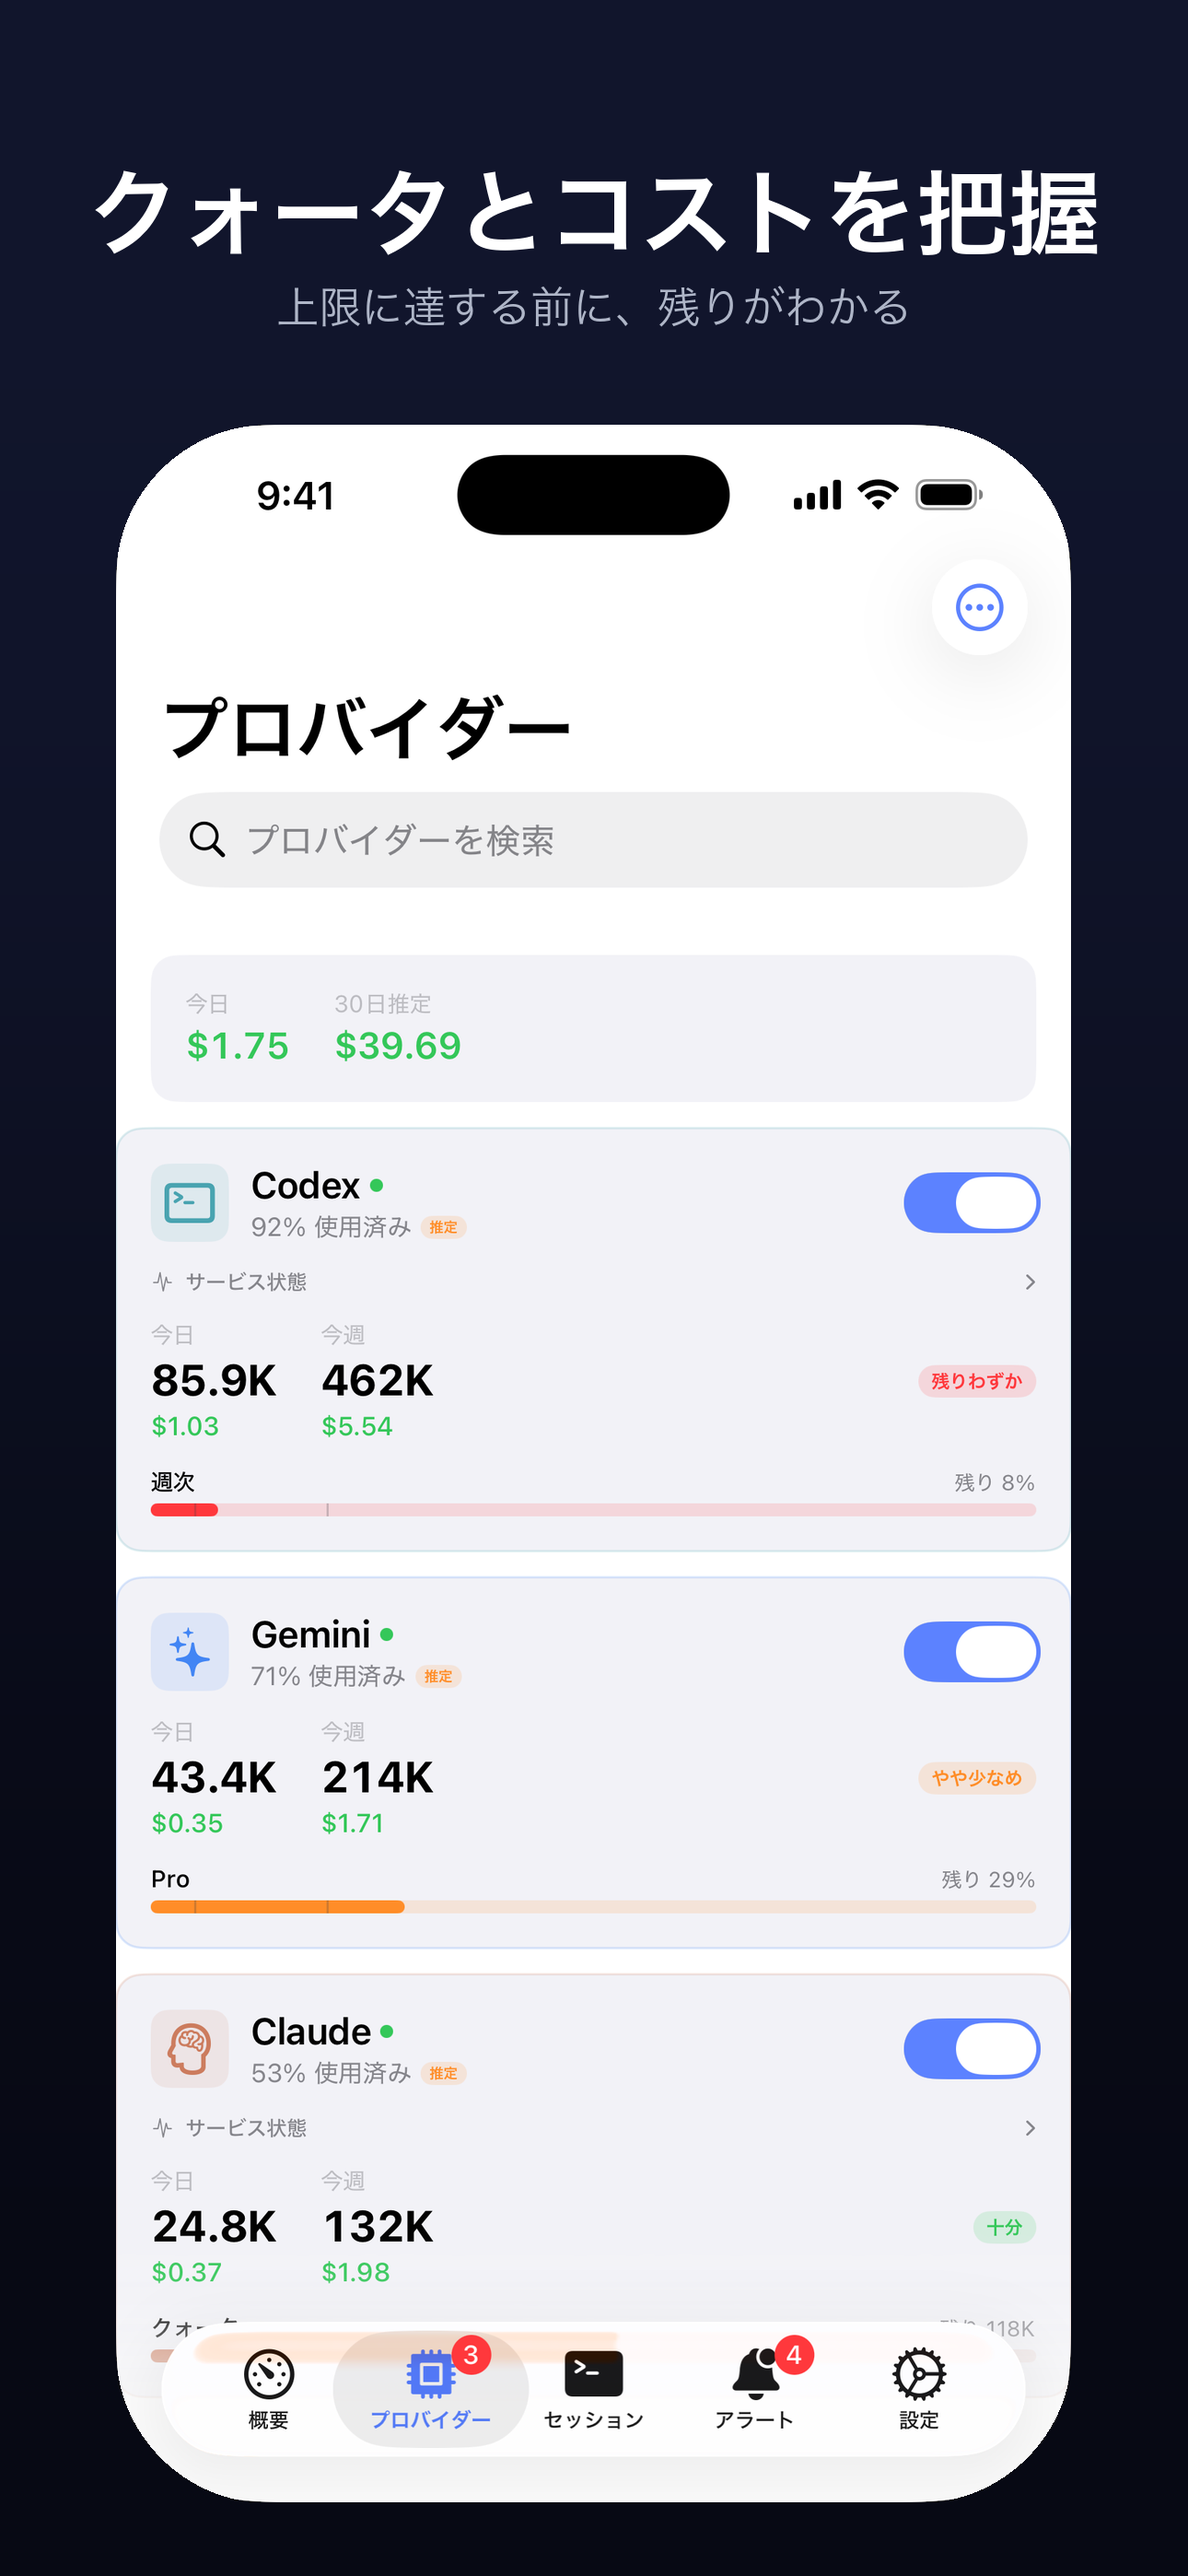
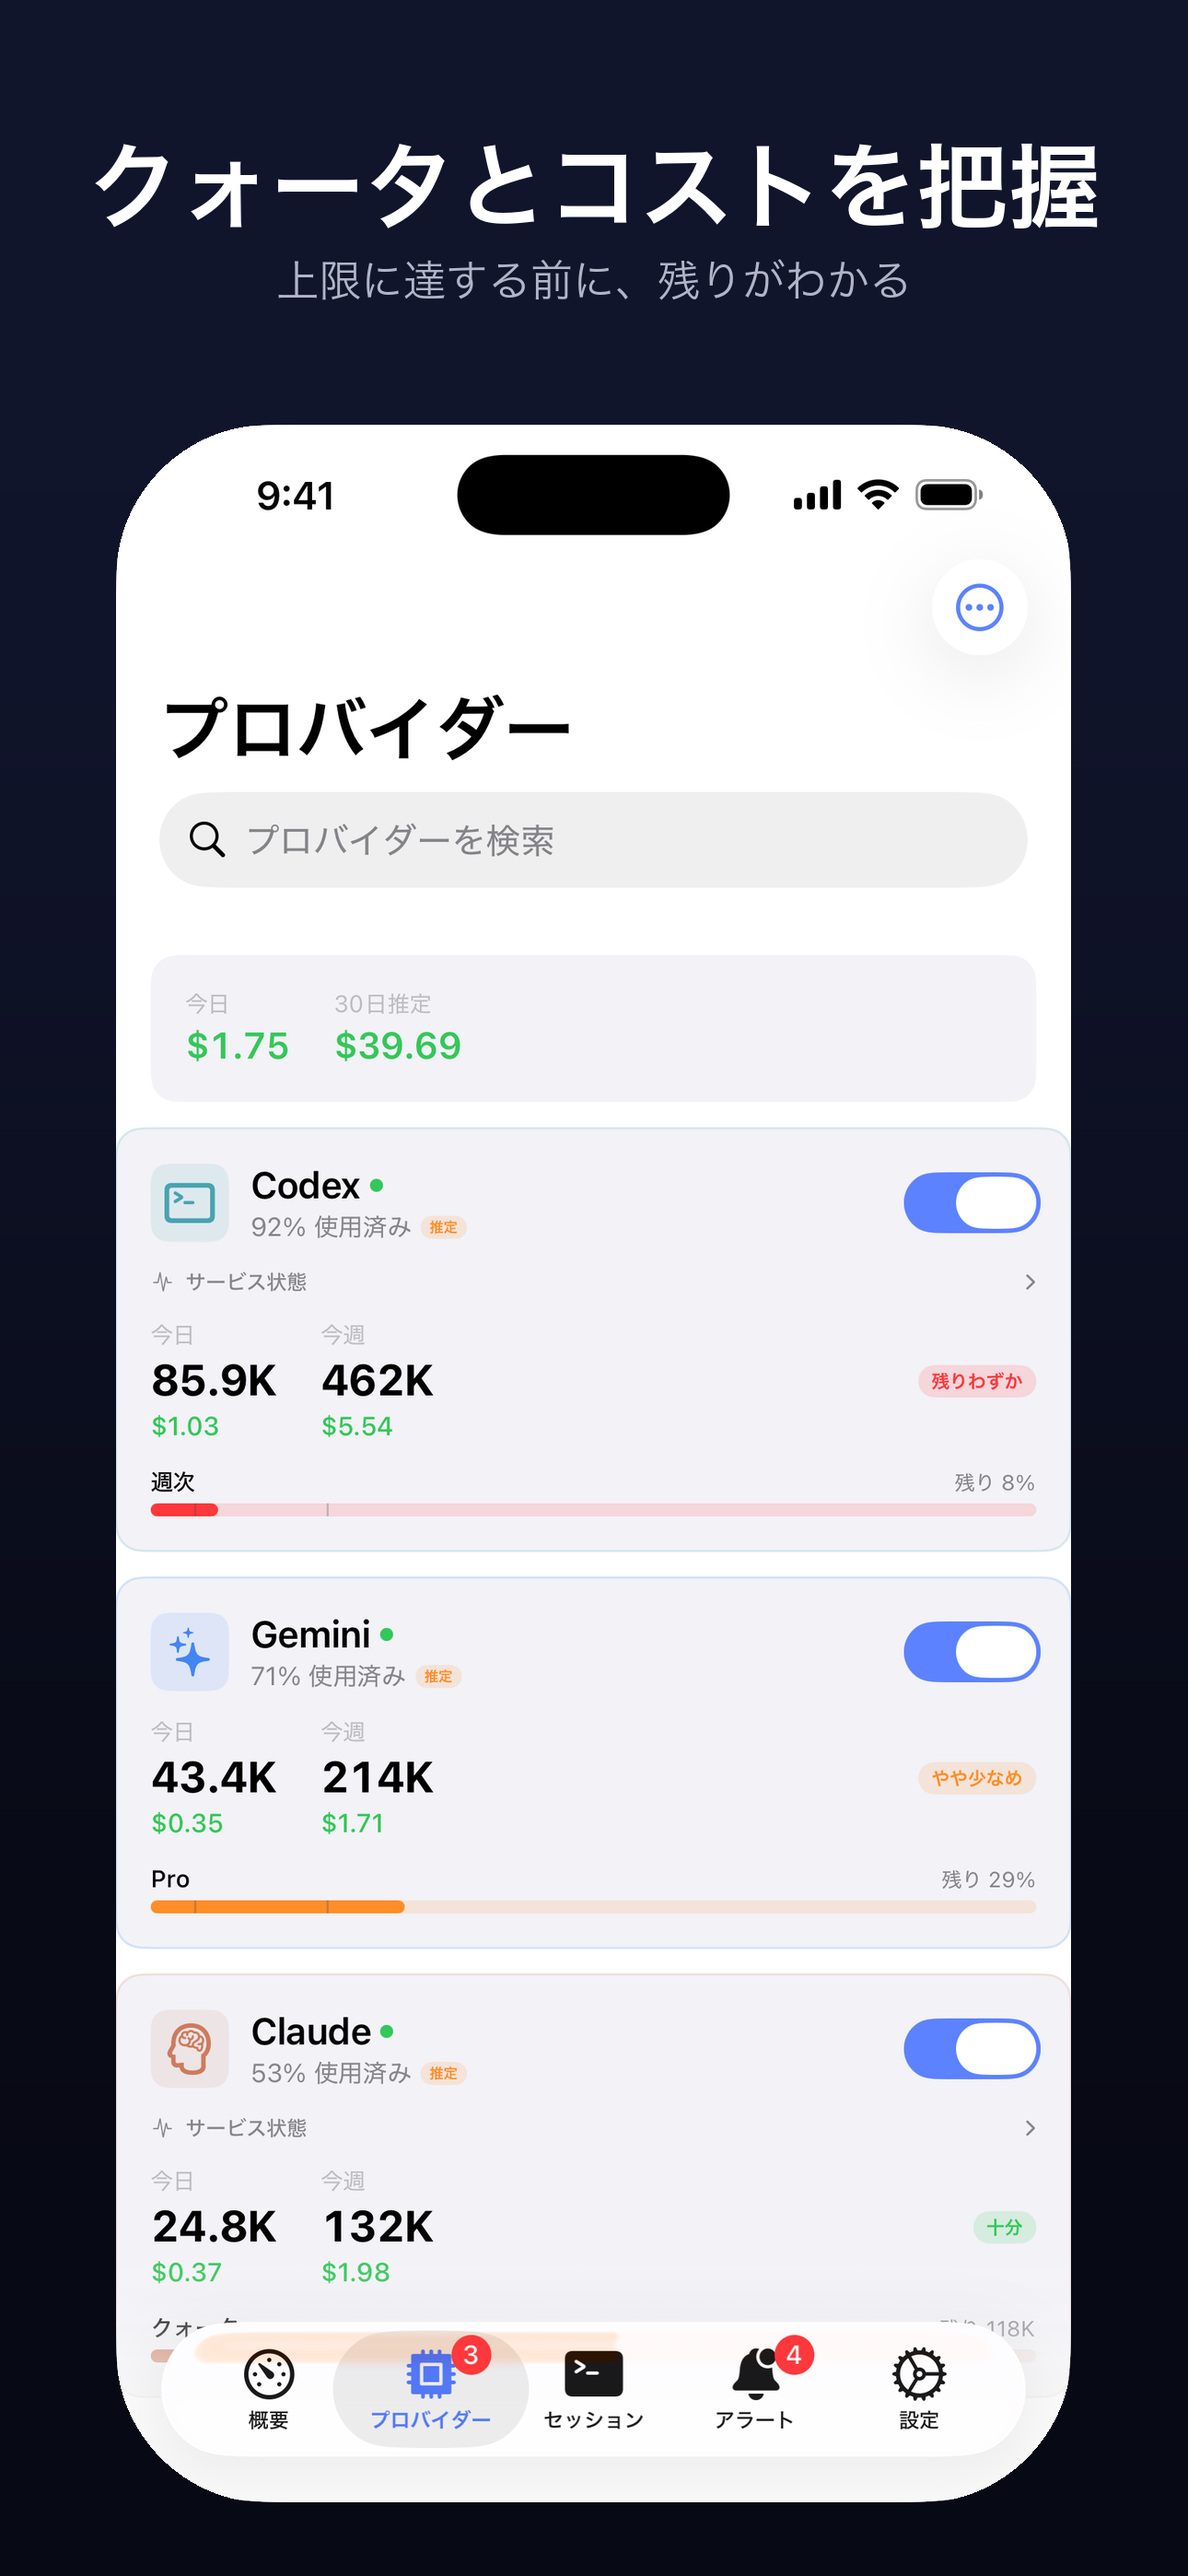
Every headline of a set sits at the same height, whatever its subtitle's length
Each panel reserves room for its set's tallest subtitle, so the phone sits
at the same place on every panel. But the caption was centred in that
room, so in a set mixing one- and two-line subtitles the one-line panels'
headlines dropped half a line (29 px) below the others'. App Store
Connect shows the panels side by side, so that shows: zh-Hant 01-04
against 05, ja 02 against the rest, es 01/02/04 against 03/05.

The headline is now pinned to the top of the room, the subtitle directly
under it, and what a shorter subtitle leaves over stays empty below it.
The phone's place, the type sizes, wrapping, glyph checks and centring of
lines ending in 、。 are unchanged. The rule lives in caption_layout(),
which is pure, so its test runs on the bare CI runner too.

Recomposed --all from the committed captures. en, zh-Hans and ko are
byte-identical (every subtitle there is one line, so nothing moved), as
are the two-line panels zh-Hant 05, ja 01/03/04/05 and es 03/05. The
eight one-line panels changed, and only in their caption band: it is the
old band moved up exactly 29 px with no pixel value changed, and every
row from the subtitle's old bottom down, the whole phone included, is
identical to before.

Headline ink tops per panel (01..05), before -> after:
  zh-Hant 185 185 184 184 155 -> 156 156 155 155 155
  ja      157 185 154 155 156 -> 157 156 154 155 156
  es      195 195 165 194 166 -> 166 166 165 165 166
[…]

Changed region(s): [[0.062, 0.0311, 0.9302, 0.1245]]

diff --git a/scripts/test_appstore_screenshots.py b/scripts/test_appstore_screenshots.py
@@ -11,13 +11,17 @@
     Traditional Chinese captions use the decided terms (scripts/zh_hant_terms.json);
     lines wrap where each script allows it (kinsoku in Chinese and Japanese,
     spaces in Korean and Spanish, never inside "CLI Pulse" or a Latin word);
+    every headline of a set starts at the same height, whatever its subtitle's
+    line count, and so does every phone;
   * a composed set is uploadable only with the compose.json a clean compose
     run writes, and only with the panels it records;
   * on macOS with Pillow only: every caption's every character has a glyph in
     the chosen face; a Latin-only face, and a face of the other Chinese region,
     is refused (the negative controls); a trailing 、 is centred on its ink; a
-    failing compose run publishes nothing and withdraws the earlier set. On any
-    other machine these are reported as NOT RUN, never as passed.
+    failing compose run publishes nothing and withdraws the earlier set; on a
+    composed set mixing one- and two-line subtitles, every headline is on the
+    same pixel rows. On any other machine these are reported as NOT RUN, never
+    as passed.
 
 Bare python3 for everything else; CI runs it in repo-hygiene.yml.
 """
@@ -272,6 +276,26 @@ check("a U+200B is a preferred break and is never drawn",
       lines == ["すべてを", "ひと目で見る"], str(lines))
 check("nothing fits: None, not a clipped line", wrap("Averyveryverylongword", "en", 5) is None)
 
+# ── caption layout ───────────────────────────────────────────────────────────
+# Every panel of a set reserves room for the set's tallest subtitle. App Store
+# Connect shows the panels side by side, so in a set mixing one- and two-line
+# subtitles a one-line panel's headline must start where a two-line panel's
+# does; centring the caption in the room dropped it half a line.
+t_box, s_box = round(100 * compose.LINE_BOX), round(46 * compose.LINE_BOX)
+one, two = (compose.caption_layout(t_box, s_box, n, 2) for n in (1, 2))
+check("in a set mixing one- and two-line subtitles, every headline and subtitle starts at the same y",
+      one.title_y == two.title_y and one.sub_ys[0] == two.sub_ys[0], f"{one} vs {two}")
+check("... and every phone too",
+      one.shot_top == two.shot_top, f"{one} vs {two}")
+check("the headline is at the top of the room, the subtitle directly under it",
+      one.title_y == compose.TEXT_TOP_MARGIN
+      and one.sub_ys == (one.title_y + t_box + compose.TITLE_TO_SUB_GAP,)
+      and two.sub_ys[1] == two.sub_ys[0] + s_box + compose.SUB_LINE_GAP, f"{one} / {two}")
+alone = compose.caption_layout(t_box, s_box, 1, 1)
+check("a set of one-line subtitles reserves one line, so its phone starts one line higher",
+      alone.title_y == one.title_y
+      and alone.shot_top == one.shot_top - s_box - compose.SUB_LINE_GAP, f"{alone} vs {one}")
+
 # ── fonts (macOS with Pillow only) ───────────────────────────────────────────
 
 fonts_here = compose.ImageFont is not None and Path("/System/Library/Fonts/SFNS.ttf").exists()
@@ -387,6 +411,68 @@ if fonts_here:
           raised is not None and calls["n"] == 3 and not manifest.exists()
           and not any(p.name.startswith(".ko.") for p in out.parent.iterdir()),
           f"raised={raised!r} manifest={manifest.exists()}")
+
+    # The headline rule on the pixels: one headline over all five panels,
+    # subtitles alternating one and two lines (the one-line one is the other's
+    # first line, so it draws the same ink), composed and measured.
+    from PIL import ImageChops as _Chops
+    FIXTURE_RGB = (240, 242, 246)   # the raw captures above
+
+    def ink_rows(img, lo: int, hi: int, floor: int):
+        """(first, last) row in [lo, hi) with a pixel whose every channel is >= floor."""
+        chans = [c.point(lambda v: 255 if v >= floor else 0)
+                 for c in img.crop((0, lo, img.width, hi)).split()]
+        box = _Chops.darker(_Chops.darker(chans[0], chans[1]), chans[2]).getbbox()
+        return None if box is None else (lo + box[1], lo + box[3] - 1)
+
+    def phone_top(img) -> int | None:
+        """The first row whose middle 200 px are all the capture's colour."""
+        mid = img.width // 2
+        for y in range(img.height):
+            if set(img.crop((mid - 100, y, mid + 100, y + 1)).getdata()) == {FIXTURE_RGB}:
+                return y
+        return None
+
+    es_faces = compose.pick_faces("es")[0]
+    long_sub = "Alertas de cuota, picos de CPU y sesiones de larga duración"
+    long_lines = compose.subtitle_lines(long_sub, "es", es_faces["subtitle"], compose.SUB_SIZE_MAX) or []
+    short_sub = long_lines[0] if long_lines else long_sub
+    mixed = {st: ("Todo de un vistazo", long_sub if i % 2 else short_sub)
+             for i, st in enumerate(shots.stems())}
+    saved_es = dict(compose.COPY["es"])
+    out_es = tmp / "compose-out" / "es"
+    try:
+        compose.COPY["es"].update(mixed)
+        with contextlib.redirect_stdout(io.StringIO()) as log:
+            es_run = compose.compose_lang("es", raw, out_es)
+        n_lines = [len(compose.subtitle_lines(s, "es", es_faces["subtitle"], compose.SUB_SIZE_MAX) or [])
+                   for _, s in mixed.values()]
+    finally:
+        compose.COPY["es"].clear()
+        compose.COPY["es"].update(saved_es)
+    check("the headline fixture composes, and mixes one- and two-line subtitles",
+          es_run == [] and n_lines == [1, 2, 1, 2, 1], f"{es_run} {n_lines}\n{log.getvalue()}")
+    measured = {}
+    for st in shots.stems():
+        img = _Image.open(out_es / shots.composed_name(st)).convert("RGB")
+        top = phone_top(img)
+        # Only the white title reaches 215 in every channel; the grey subtitle
+        # (175, 182, 200) never does, and anything above 120 is one of the two.
+        title = ink_rows(img, 0, top or 0, 215) if top else None
+        sub = ink_rows(img, title[1] + 1, top, 120) if title else None
+        measured[st] = (title, sub[0] if sub else None, top,
+                        img.crop((0, top, img.width, img.height)).tobytes() if top else None)
+    detail = "\n".join(f"{st}: headline rows {m[0]}, subtitle from row {m[1]}, phone from row {m[2]}"
+                       for st, m in measured.items())
+    check("every panel's headline is on the same rows when subtitles mix one and two lines",
+          None not in {m[0] for m in measured.values()} and len({m[0] for m in measured.values()}) == 1,
+          detail)
+    check("... and so is its subtitle's first line",
+          None not in {m[1] for m in measured.values()} and len({m[1] for m in measured.values()}) == 1,
+          detail)
+    check("... and the phone starts on the same row, drawn the same, on every panel",
+          None not in {m[2] for m in measured.values()}
+          and len({(m[2], m[3]) for m in measured.values()}) == 1, detail)
 else:
     not_run += 1
     print("NOT RUN: glyph coverage (needs macOS system fonts and Pillow); "

diff --git a/CLI Pulse Bar/scripts/compose_appstore_ios_screenshots.py b/CLI Pulse Bar/scripts/compose_appstore_ios_screenshots.py
@@ -19,7 +19,7 @@ Usage:
 Exit 1 if any caption does not fit or any character would render as tofu.
 The output directory then keeps no set a push would accept (see 5).
 
-Five things this script learned the hard way, each of which silently produces a
+Six things this script learned the hard way, each of which silently produces a
 listing you would not ship:
 
 1. TEXT THAT DOES NOT FIT IS NOT A LAYOUT PROBLEM, IT IS A CROPPED SENTENCE.
@@ -65,6 +65,13 @@ listing you would not ship:
    left there cannot be pushed as if it were this run's: set_problems in
    scripts/appstore_screenshots.py, which the pusher and --require-shots use,
    refuses a set without compose.json or with a panel it does not list.
+
+6. PANELS ARE SEEN SIDE BY SIDE, SO THEIR HEADLINES MUST LINE UP.
+   Every panel of a set reserves room for the set's tallest subtitle, so the
+   phone sits at the same place on each. Centring a shorter caption in that
+   room dropped its headline half a line below its neighbours' in every set
+   mixing one- and two-line subtitles. The headline now sits at the top of
+   the room on every panel (caption_layout).
 """
 
 from __future__ import annotations
@@ -541,6 +548,34 @@ def set_sub_lines(lang: str, faces: dict[str, Face], stems_: list[str], s_size: 
                for st in stems_)
 
 
+@dataclass(frozen=True)
+class CaptionLayout:
+    title_y: int                # top of the title's line box
+    sub_ys: tuple[int, ...]     # top of each subtitle line's box
+    shot_top: int               # where the space for the phone starts
+
+
+def caption_layout(title_box: int, sub_box: int, sub_lines: int,
+                   reserved_lines: int) -> CaptionLayout:
+    """Where one panel's caption and phone go, from its line boxes (pure; tested
+    without Pillow). `reserved_lines` is the set's tallest subtitle
+    (set_sub_lines), and every panel reserves room for that many lines.
+
+    The headline is pinned to the top of that room, the subtitle follows
+    directly under it, and whatever a shorter subtitle leaves over stays empty
+    below it, so the headline sits at the same height on every panel of the
+    set (see 6 in the module docstring: centring the caption in the room
+    dropped the one-line panels' headlines half a line, in zh-Hant 01-04, ja 02
+    and es 01/02/04). The phone's place depends only on the room."""
+    reserved_lines = max(reserved_lines, sub_lines)
+    title_y = TEXT_TOP_MARGIN
+    first_sub = title_y + title_box + TITLE_TO_SUB_GAP
+    sub_ys = tuple(first_sub + i * (sub_box + SUB_LINE_GAP) for i in range(sub_lines))
+    room = (title_box + TITLE_TO_SUB_GAP
+            + reserved_lines * sub_box + (reserved_lines - 1) * SUB_LINE_GAP)
+    return CaptionLayout(title_y, sub_ys, TEXT_TOP_MARGIN + room + TEXT_TO_SHOT_GAP)
+
+
 def set_sizes(lang: str, faces: dict[str, Face], stems_: list[str]) -> tuple[int, int, list[str]]:
     """One title size and one subtitle size for the whole set, the largest at
     which every caption fits: a carousel whose panels change type size from
@@ -597,23 +632,16 @@ def compose_one(src: Path, dst: Path, lang: str, faces: dict[str, Face],
         problems.append(f"subtitle overflows at {s_size}pt: {subtitle!r}")
         sub_lines = [subtitle.replace(ZWSP, "")]
 
-    def block(lines: int) -> int:
-        return (line_height(title_font) + TITLE_TO_SUB_GAP
-                + lines * line_height(sub_font) + (lines - 1) * SUB_LINE_GAP)
-
-    # The text is centred in a block as tall as the set's tallest caption, so
-    # the phone below starts at the same height on every panel of the set.
-    reserved = block(max(reserved_lines, len(sub_lines)))
-    y = TEXT_TOP_MARGIN + (reserved - block(len(sub_lines))) // 2
-    y = draw_centered(draw, y, title, title_font, TITLE_COLOR)
-    y += TITLE_TO_SUB_GAP
-    for i, line in enumerate(sub_lines):
-        y = draw_centered(draw, y, line, sub_font, SUBTITLE_COLOR)
-        if i != len(sub_lines) - 1:
-            y += SUB_LINE_GAP
+    # Headline at the same height on every panel of the set, and the phone
+    # too: see caption_layout.
+    layout = caption_layout(line_height(title_font), line_height(sub_font),
+                            len(sub_lines), reserved_lines)
+    draw_centered(draw, layout.title_y, title, title_font, TITLE_COLOR)
+    for y, line in zip(layout.sub_ys, sub_lines):
+        draw_centered(draw, y, line, sub_font, SUBTITLE_COLOR)
 
     shot = Image.open(src).convert("RGB")
-    top = TEXT_TOP_MARGIN + reserved + TEXT_TO_SHOT_GAP
+    top = layout.shot_top
     avail_h = CANVAS_H - top - 80
     avail_w = CANVAS_W - SIDE_MARGIN * 2
     scale = min(avail_w / shot.width, avail_h / shot.height)
